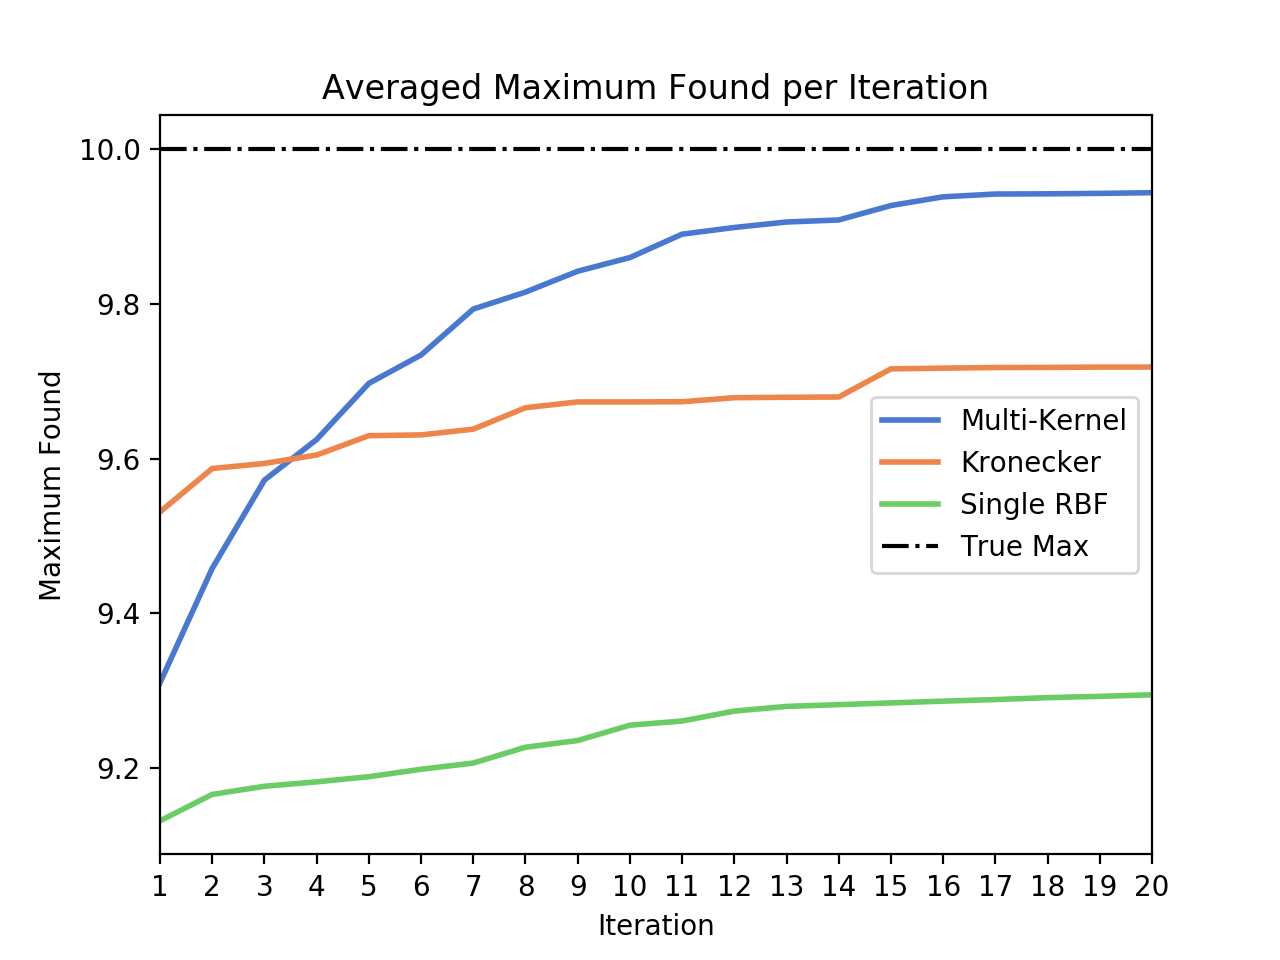
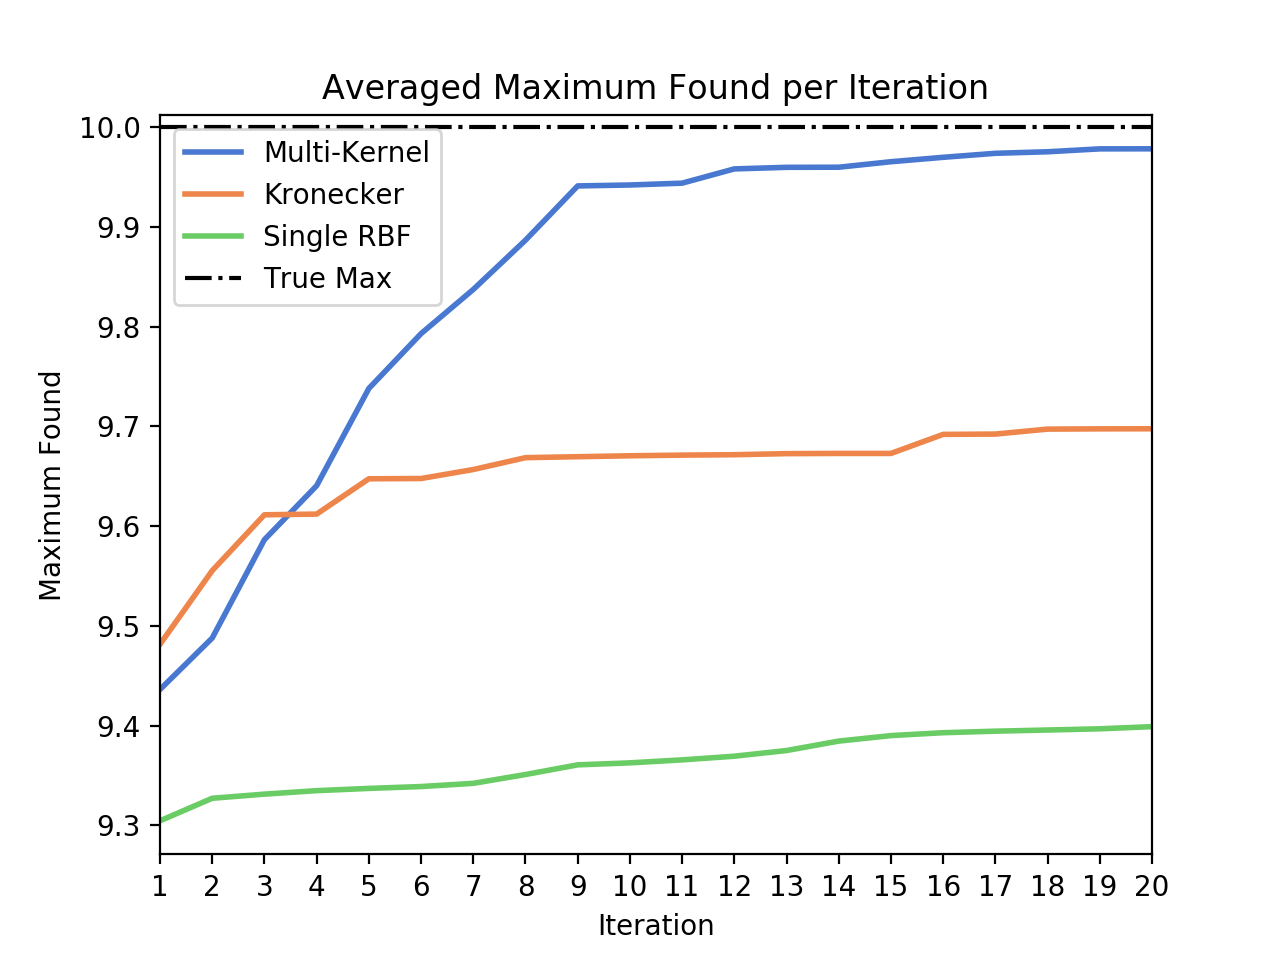
fixed testing based on number of tasks

diff --git a/bayes-opt/testing/test-num-tasks/test_num_tasks.py b/bayes-opt/testing/test-num-tasks/test_num_tasks.py
@@ -18,32 +18,40 @@ def main():
     full_x = torch.linspace(0, 10, n_pts)
     n_start = 2
 
-    n_trials = 4
-    n_samples = 5
+    n_trials = 50
+    n_samples = 23
     one_maxes = np.zeros((n_trials+1, n_samples - n_start - 1))
     two_maxes = np.zeros((n_trials+1, n_samples - n_start - 1))
     three_maxes = np.zeros((n_trials+1, n_samples - n_start - 1))
     four_maxes = np.zeros((n_trials+1, n_samples - n_start - 1))
-    five_maxes = np.zeros((n_trials+1, n_samples - n_start - 1))
 
     iter = -1
+    fname = "num_task_data.npz"
     while(iter < n_trials):
         iter += 1
 
-        full_y = data_gen(full_x)
+        full_y = data_gen(full_x, n_tasks=4).detach()
         obs_inds = random.sample(range(n_pts), n_start)
         obs_inds2 = deepcopy(obs_inds)
         obs_inds3 = deepcopy(obs_inds)
         obs_inds4 = deepcopy(obs_inds)
         obs_inds5 = deepcopy(obs_inds)
-        y1 = full_y[:, 0]
-        one_maxes[iter, :] = bayes_opt_single(full_x, y1, obs_inds, end_sample_count=n_samples)
-        two_maxes[iter, :] = bayes_opt_multi(full_x, full_y[:, 0:1], obs_inds2, end_sample_count=n_samples)
-        three_maxes[iter, :] = bayes_opt_multi(full_x, full_y[:, 0:2], obs_inds3, end_sample_count=n_samples)
-        four_maxes[iter, :] = bayes_opt_multi(full_x, full_y[:, 0:3], obs_inds4, end_sample_count=n_samples)
-        five_maxes[iter, :] = bayes_opt_multi(full_x, full_y, obs_inds5, end_sample_count=n_samples)
 
+        ## implement error catching ##
+        try:
+            one_maxes[iter, :] = bayes_opt_single(full_x, full_y[:, 0], obs_inds, end_sample_count=n_samples)[n_start:]
+            two_maxes[iter, :] = bayes_opt_multi(full_x, full_y[:, 0:2], obs_inds2, end_sample_count=n_samples)[n_start:]
+            three_maxes[iter, :] = bayes_opt_multi(full_x, full_y[:, 0:3], obs_inds3, end_sample_count=n_samples)[n_start:]
+            four_maxes[iter, :] = bayes_opt_multi(full_x, full_y, obs_inds4, end_sample_count=n_samples)[n_start:]
+        except:
+            iter -= 1
+            print("error hit")
+            
+        if iter % 5 == 0:
+            np.savez(fname, one_maxes=one_maxes, two_maxes=two_maxes, three_maxes=three_maxes, four_maxes=four_maxes)
+        print("trial ", iter, "done")
 
+    np.savez(fname, one_maxes=one_maxes, two_maxes=two_maxes, three_maxes=three_maxes, four_maxes=four_maxes)
     return 1
 
 

diff --git a/bayes-opt/testing/test-num-tasks/plotting.py b/bayes-opt/testing/test-num-tasks/plotting.py
@@ -1,0 +1,34 @@
+import numpy as np
+import seaborn as sns
+import matplotlib.pyplot as plt
+
+if __name__ == '__main__':
+    dat = np.load("/Users/greg/Google Drive/Fall 18/ORIE6741/mkgp/bayes-opt/testing/test-num-tasks/num_task_data.npz")
+    dat.files
+    one_maxes = dat["one_maxes"]
+    two_maxes = dat["two_maxes"]
+    three_maxes = dat["three_maxes"]
+    four_maxes = dat["four_maxes"]
+
+    one_avg = np.mean(one_maxes, axis=0)
+    two_avg = np.mean(two_maxes, axis=0)
+    three_avg = np.mean(three_maxes, axis=0)
+    four_avg = np.mean(four_maxes, axis=0)
+
+    ## more setup ##
+    ticks = [ii+1 for ii in range(len(one_avg))]
+    plot_cols = sns.color_palette("muted", 4)
+
+    ## plotting ##
+    plt.plot(ticks, one_avg, c=plot_cols[0], ls='-', linewidth=2)
+    plt.plot(ticks, two_avg, c=plot_cols[1], ls='-', linewidth=2)
+    plt.plot(ticks, three_avg, c=plot_cols[2], ls='-', linewidth=2)
+    plt.plot(ticks, four_avg, c=plot_cols[3], ls='-', linewidth=2)
+    plt.axhline(y=10, ls="-.", c="k")
+    plt.legend(["1 Task", "2 Tasks", "3 Tasks", "4 Tasks"])
+    plt.title("Averaged Maximum Found per Iteration")
+    plt.ylabel("Maximum Found")
+    plt.xlabel("Iteration")
+    plt.xticks(ticks)
+    plt.xlim(1, 20)
+    plt.show()

diff --git a/bayes-opt/testing/test-num-tasks/data_gen.py b/bayes-opt/testing/test-num-tasks/data_gen.py
@@ -5,8 +5,8 @@ import random
 import sys
 sys.path.append("/Users/greg/Google Drive/Fall 18/ORIE6741/mkgp/bayes-opt/testing/")
 import mk_kernel
-n_tasks = 4
-full_x = torch.linspace(0, 10, 100)
+# n_tasks = 4
+# full_x = torch.linspace(0, 10, 100)
 def data_gen(full_x, n_tasks=2):
     lh = gpytorch.likelihoods.MultitaskGaussianLikelihood(num_tasks=n_tasks)
 
@@ -38,12 +38,13 @@ def data_gen(full_x, n_tasks=2):
 
     prior_pred = model.forward(full_x)
     sample = prior_pred.rsample(torch.Size((1,)))[0]
+    sample = sample - sample[:, 0].max() + 10
 
     return sample
 
-
-    # plt.plot(sample[:, 0].detach().numpy())
-    # plt.plot(sample[:, 1].detach().numpy())
-    # plt.plot(sample[:, 2].detach().numpy())
-    # plt.plot(sample[:, 3].detach().numpy())
-    # plt.show()
+# import matplotlib.pyplot as plt
+# plt.plot(sample[:, 0].detach().numpy())
+# plt.plot(sample[:, 1].detach().numpy())
+# plt.plot(sample[:, 2].detach().numpy())
+# plt.plot(sample[:, 3].detach().numpy())
+# plt.show()

diff --git a/bayes-opt/testing/plotting.py b/bayes-opt/testing/plotting.py
@@ -5,12 +5,12 @@ import sys
 sys.path.append("/Users/greg/Google Drive/Fall 18/ORIE6741/mkgp/bayes-opt/testing/")
 
 def main():
-    kron_dat = np.load("/Users/greg/Google Drive/Fall 18/ORIE6741/mkgp/bayes-opt/testing/kron_conv_rates.npz")
-    kron_maxes = kron_dat["kron_maxes"]
+    # kron_dat = np.load("/Users/greg/Google Drive/Fall 18/ORIE6741/mkgp/bayes-opt/testing/kron_conv_rates.npz")
 
     other_dat = np.load("/Users/greg/Google Drive/Fall 18/ORIE6741/mkgp/bayes-opt/testing/conv_rates_data.npz")
     multi_maxes = other_dat["multi_maxes"]
     single_maxes = other_dat["single_maxes"]
+    kron_maxes = other_dat["kron_maxes"]
 
     kron_avg = np.mean(kron_maxes, axis=0)
     multi_avg = np.mean(multi_maxes, axis=0)

diff --git a/bayes-opt/testing/test-num-tasks/bayes_opt_multi.py b/bayes-opt/testing/test-num-tasks/bayes_opt_multi.py
@@ -30,7 +30,7 @@ def bayes_opt_multi(full_x, full_y, obs_inds, end_sample_count=30):
     current_max = full_y[:, 0].max()
     found_maxes = [current_max]
     n_tasks = full_y.shape[1]
-
+    
     ## set up the model ##
     class MultitaskModel(gpytorch.models.ExactGP):
         def __init__(self, train_x, train_y, likelihood):
